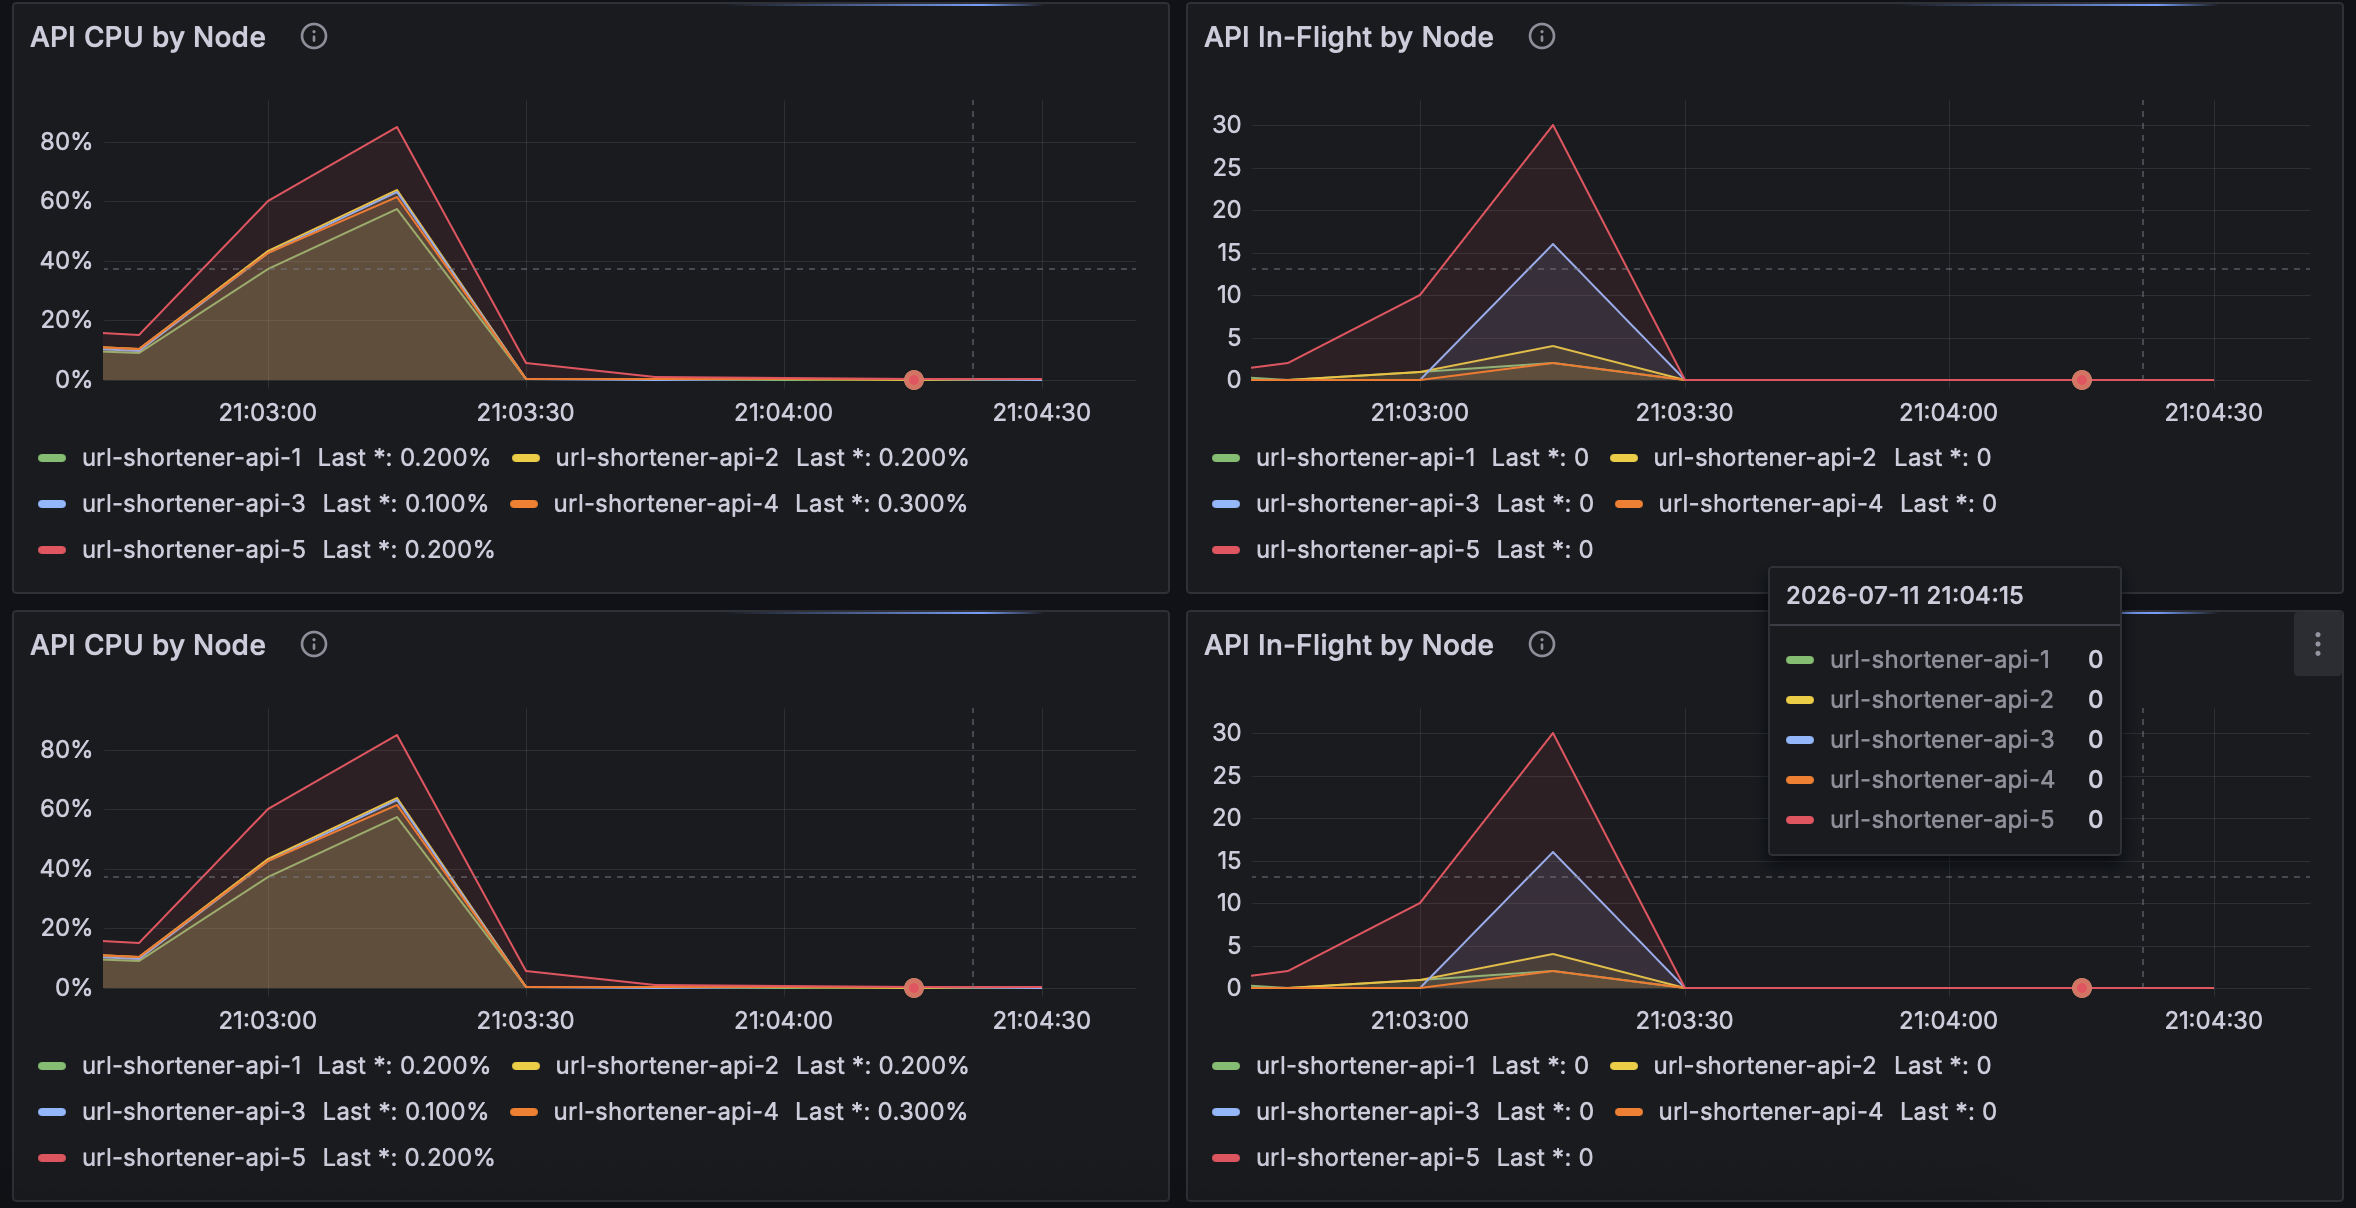
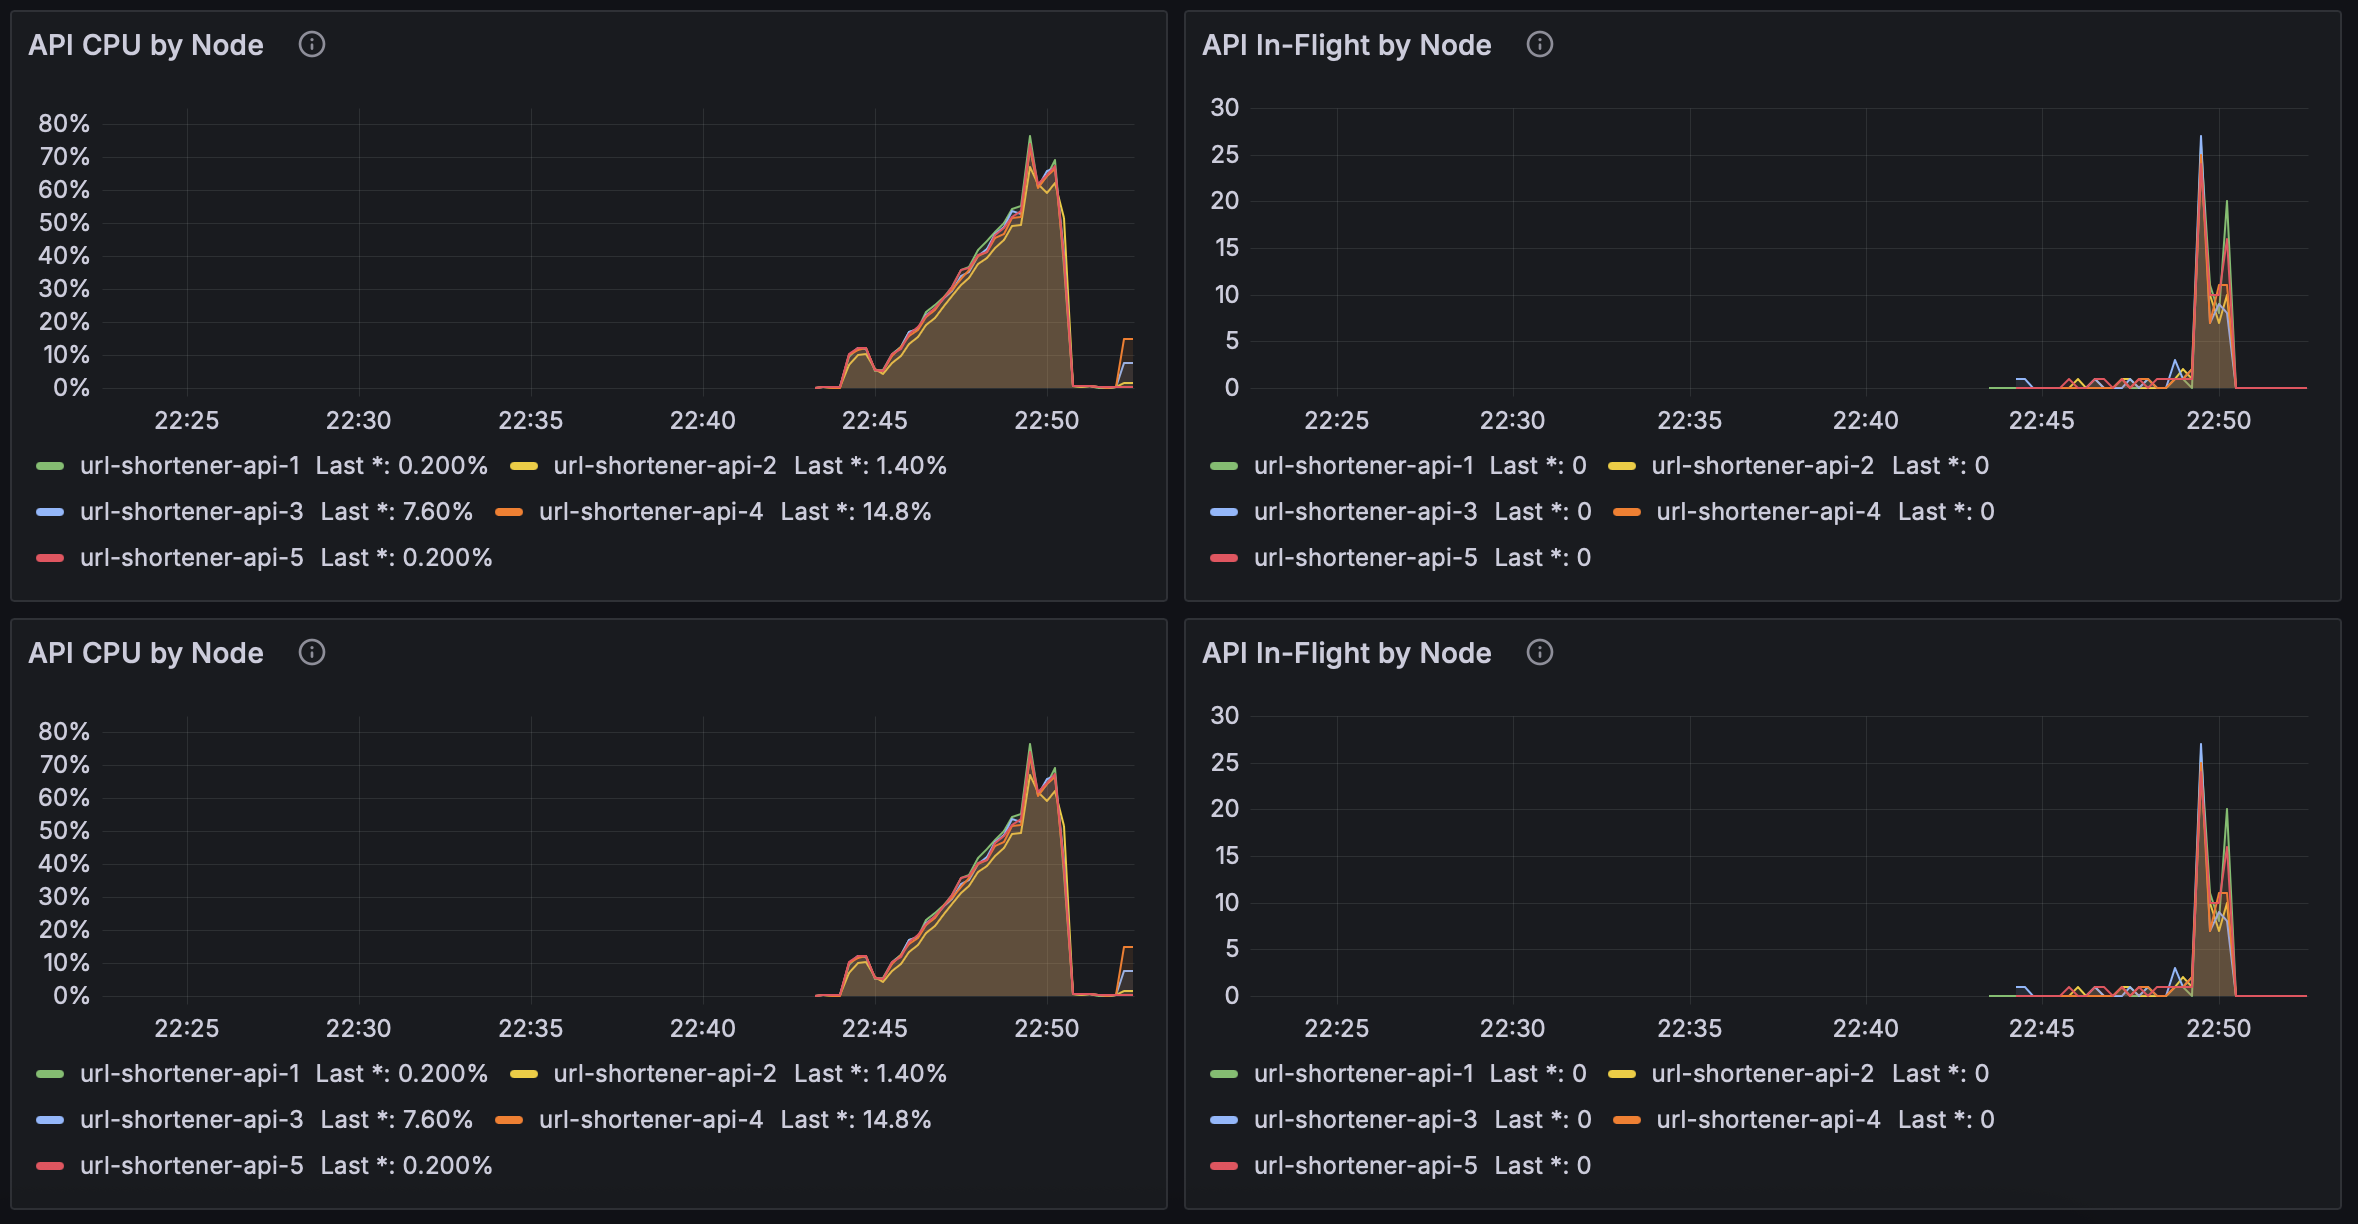
add bulkhead test

diff --git a/README.md b/README.md
@@ -339,6 +339,13 @@ The shared httpx connection pool is sized to `len(shards) *
 DB_SHARD_CONCURRENCY` so a stalled shard cannot starve the pool and reintroduce
 cross-shard coupling.
 
+Just to proof that it is working, we ran a breakpoint test with a low value for `DB_SHARD_CONCURRENCY` and were able to see, that we reach the breakpoint way before the DB was overloaded (DB Saturation < 70%):
+
+**Results of Read-Only Breakpoint Test (Uniform-Distribution, 5 API-Nodes, 1 DB-Node)** 
+![Measurement](docs/measurement_bulkhead.png)
+![API Stats](docs/API_measurement_bulkhead.png)
+![DB Stats](docs/DB_measurement_bulkhead.png)
+
 (Important note: For our breakpoint test in the results section we intentionally set the `DB_SHARD_CONCURRENCY` extremly high, since we want to test the actual limits of the system here!)
 
 @Maurice Fügst du hier die Ergenisse eines Tests ein, der Zeigt, dass das funktioniert?